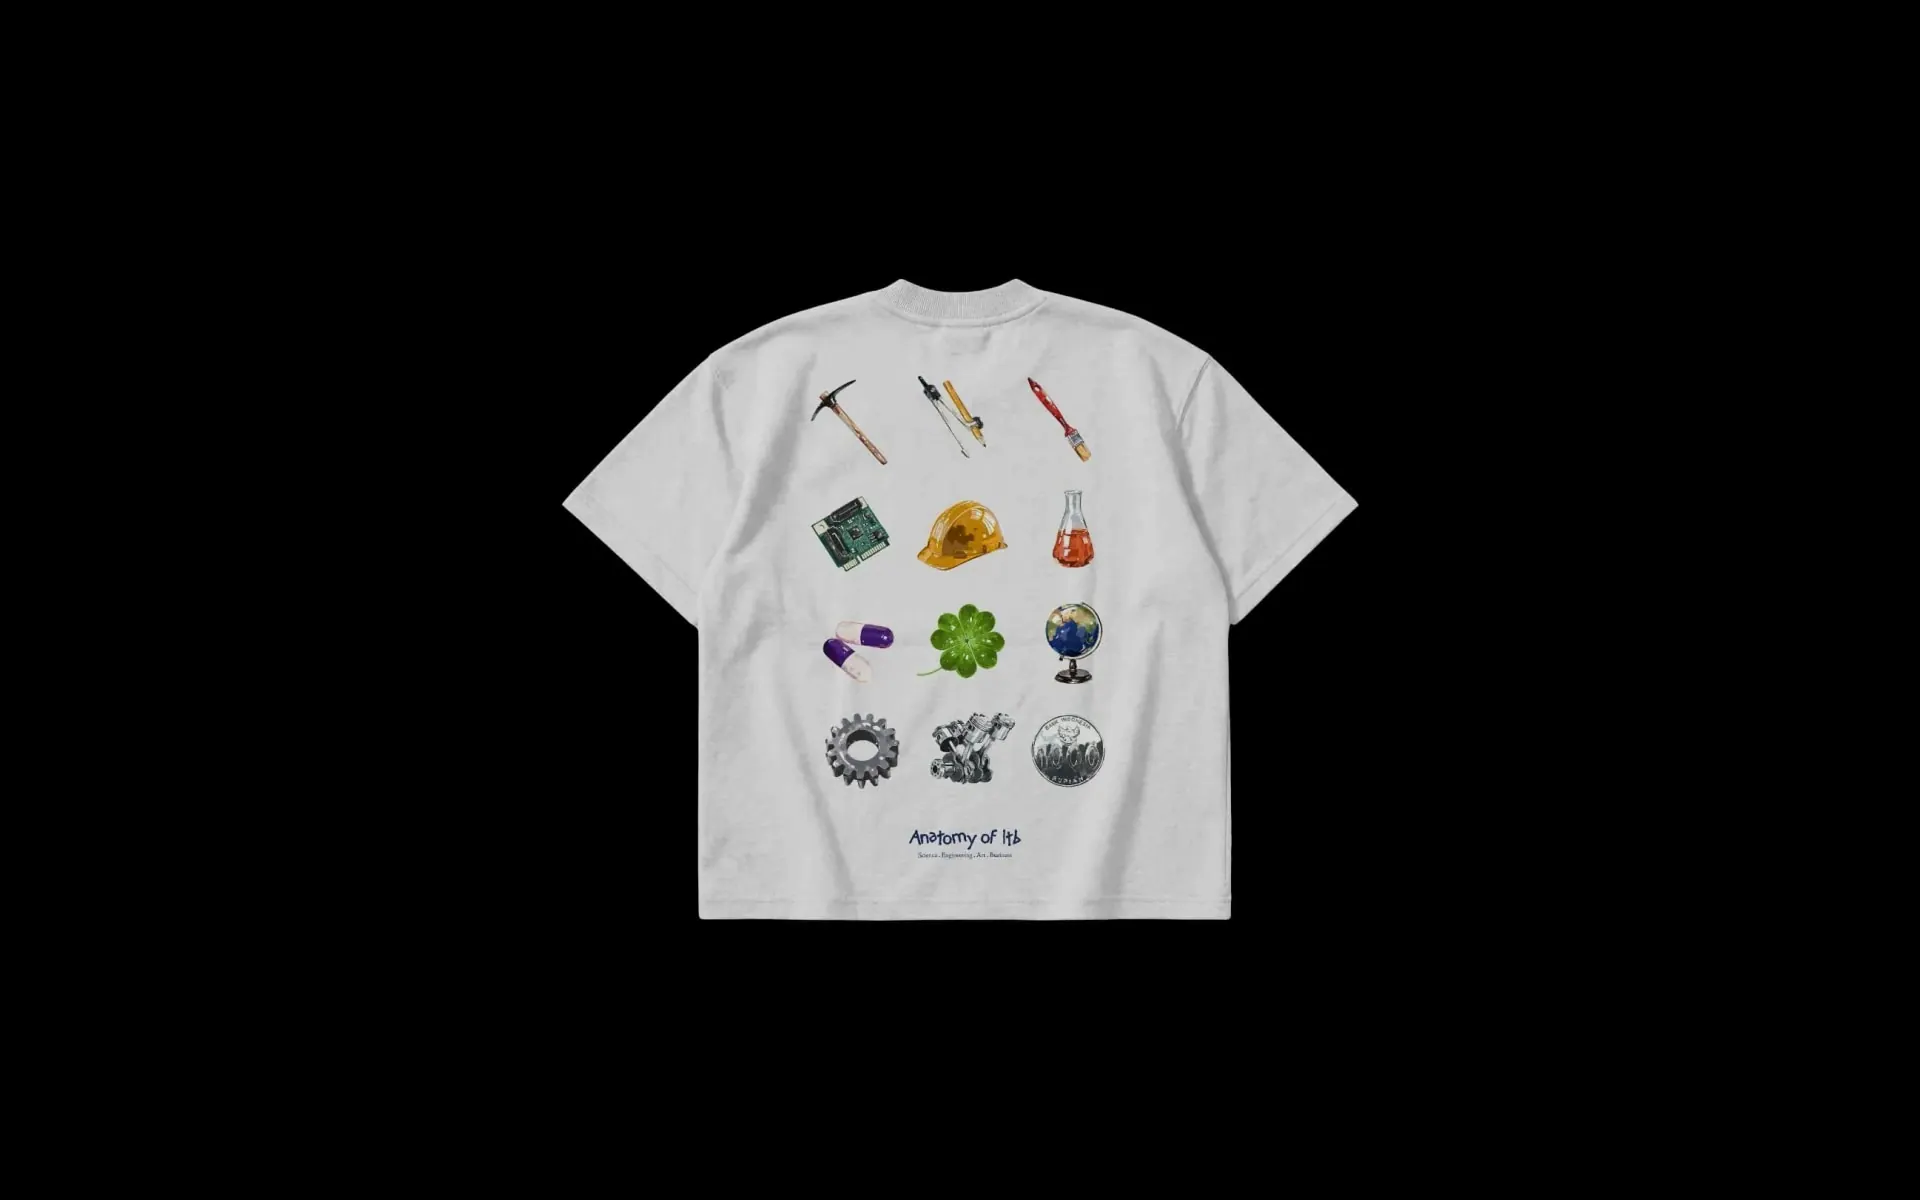
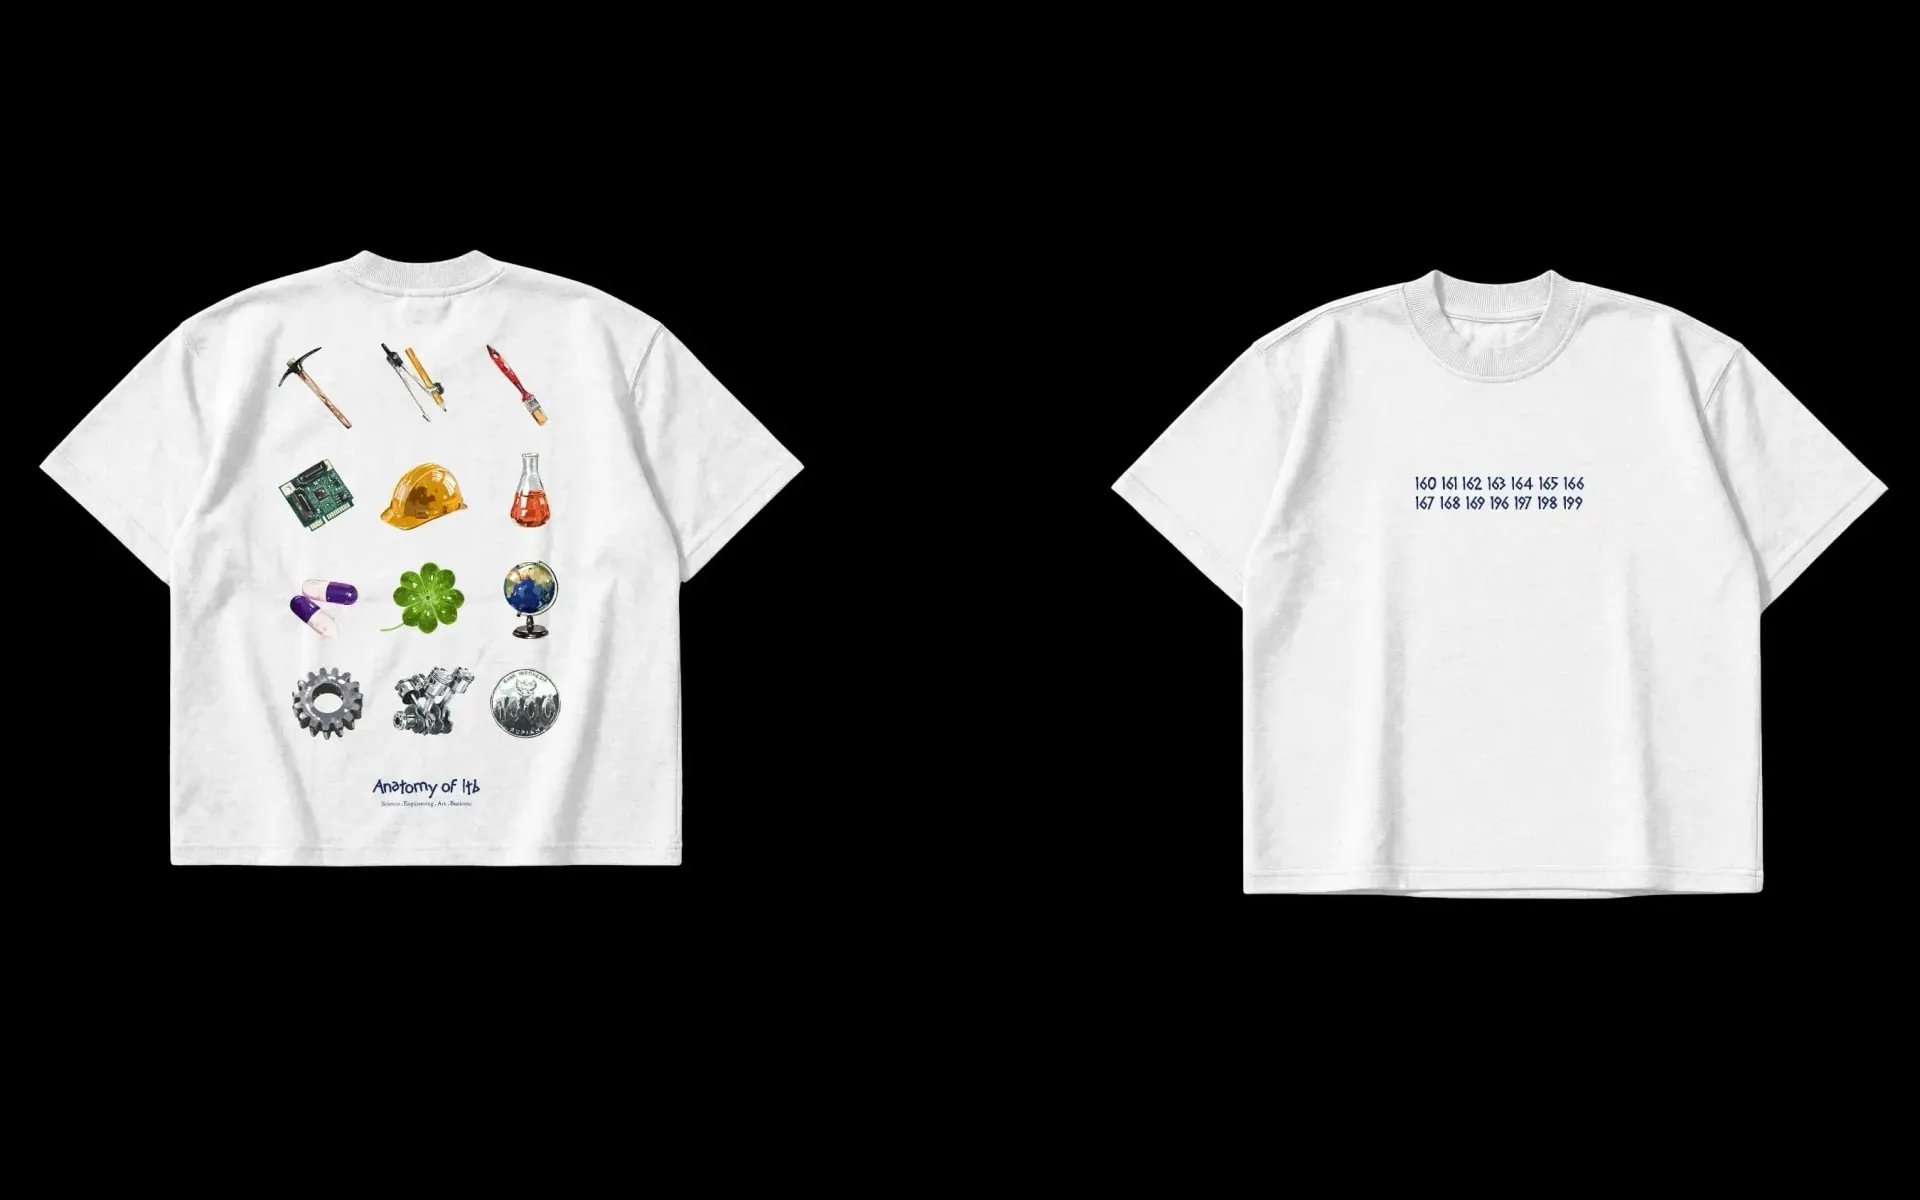
Anatomy of ITB cover: front and back together, at full brightness
- cover shows both sides of the shirt on black with a gap for the Home title; the back
  is on the left so the project page's text column sits over the plain front
- projects can opt out of Home's darkening overlay (scrim: false); this one does
- crosshair buttons get a soft dark edge so they stay visible on a white subject

diff --git a/src/data/projects.js b/src/data/projects.js
@@ -4,6 +4,8 @@
 //
 // gallery[].group — visual block: 320px between groups, 40px inside a group.
 // gallery[].bg    — solid colour shown behind the image while it loads.
+// scrim: false    — optional: don't darken this cover on Home (use when the cover
+//                   already leaves a dark area behind the centred title).
 
 const list = [
   {
@@ -14,6 +16,7 @@ const list = [
     role: 'Designer',
     summary: ['A T-shirt that dissects ITB', 'into its parts: rows of', 'faculty codes on the chest,', 'and one object for each', 'field of study on the back.'],
     context: ['ITB', 'Merchandise'],
+    scrim: false, // the cover keeps the Home title on black, so it isn't darkened
     accent: ['#000000', '#1f2a6b'],
     gallery: [
       { group: 1, src: '/images/anatomy-of-itb/01.jpg', w: 1131, h: 1600, bg: '#000000', alt: 'Anatomy of ITB T-shirt, front: two rows of numbers in blue on the chest' },

diff --git a/src/styles/home.css b/src/styles/home.css
@@ -60,6 +60,11 @@
   opacity: 1;
 }
 
+/* covers that already keep the title on a dark area (scrim: false in projects.js) */
+.page--home.is-in.no-scrim::before {
+  opacity: 0;
+}
+
 /* --- crosshairs ---------------------------------------------------------
    The side ones are buttons (previous / next) with a 44px hit area around the 22px
    icon; the centre one is the strip-mode reticle. The wrapper scales / slides (CSS),
@@ -82,6 +87,8 @@
 
 .h-cross-icon {
   will-change: transform;
+  /* a soft dark edge so the white cross stays visible on a white subject */
+  filter: drop-shadow(0 0 1.5px rgba(0, 0, 0, 0.75));
 }
 
 .h-cross--l {

diff --git a/src/pages/Home.js b/src/pages/Home.js
@@ -310,6 +310,8 @@ export class Home extends Page {
   updateThumbs(index) {
     if (index === this.thumbIndex) return;
     this.thumbIndex = index;
+    // a cover can opt out of the legibility scrim (`scrim: false` in projects.js)
+    this.el.classList.toggle('no-scrim', projects[index].scrim === false);
     this.thumbs.forEach((t, i) => {
       const active = i === index;
       t.classList.toggle('is-active', active);
